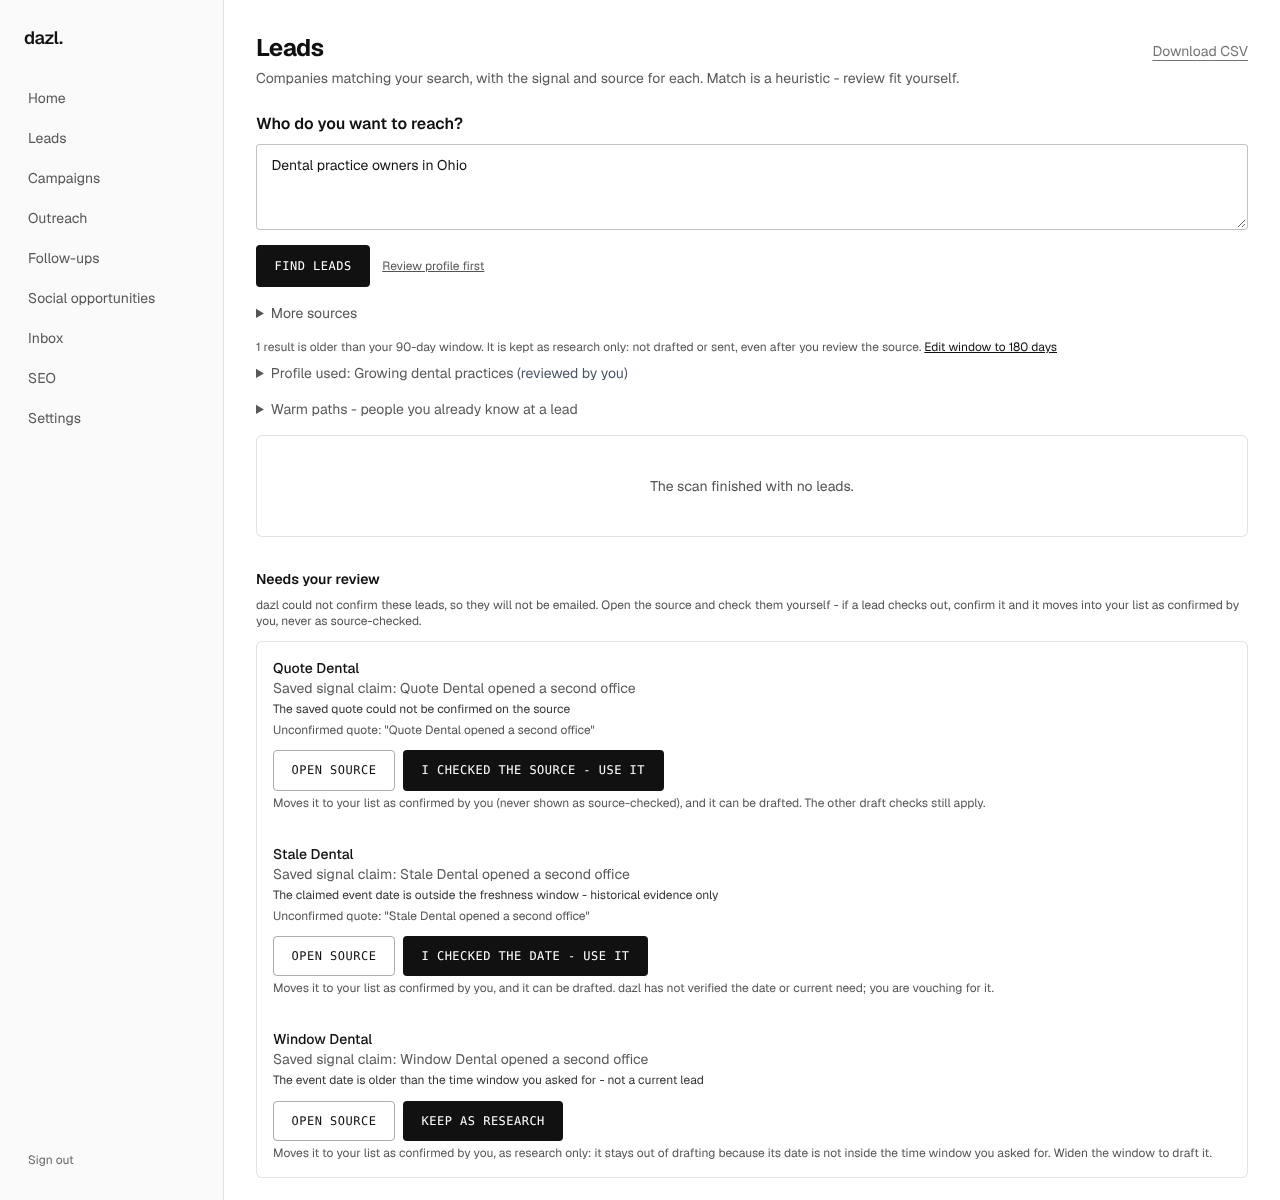
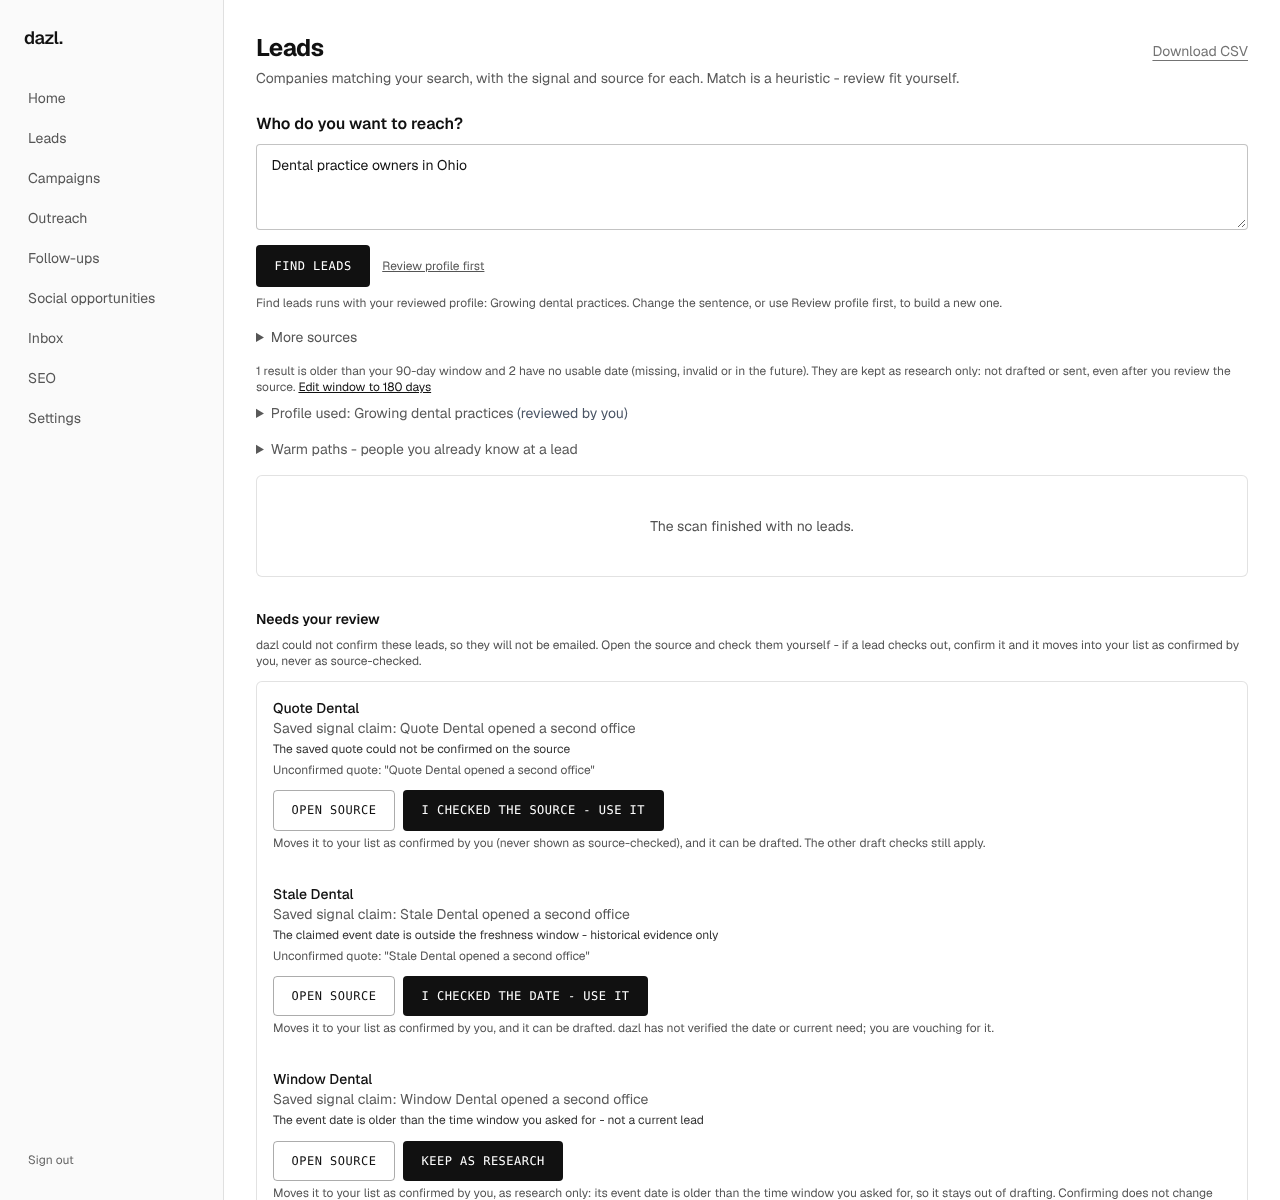
Review cards: never offer widening as a cure for undated, invalid or future dates
"Widen the window to draft it" was false for a lead with no valid event date (missing, invalid or in the future):
the window gate never admits those, whatever the window. And for a valid date older than the window, widening does not
change the existing lead; only a new scan with a wider window can find it as current, at the usual scan budget. The
hint now follows the same date test as the gate (windowStatus): no valid date -> research only, a wider window does not
change that; older -> research only for this lead, only a new wider-window scan (usual budget); held with no date facts
known -> safe common wording without a cure.

Claude-Session: https://claude.ai/code/session_01CafonXdzjwkFYiMRJWtsKo

diff --git a/web/test/review-action.test.ts b/web/test/review-action.test.ts
@@ -2,26 +2,51 @@ import { test } from 'node:test'
 import assert from 'node:assert/strict'
 import { reviewAction } from '../lib/scan/review-action.ts'
 
-test('a time-window hold survives confirming, so the action says "research only", never "use it"', () => {
-  for (const r of ['outside_window', 'outside_window_undated']) {
-    const a = reviewAction(r)
-    assert.equal(a.label, 'Keep as research')
-    assert.match(a.hint, /research only: it stays out of drafting/)
+const NOW = new Date('2026-10-28T12:00:00Z')
+const act = (o: object) => reviewAction(o as never, NOW)
+const NO_WIDEN = /wider|widen/i
+
+// Instinct #271: "Widen the window to draft it" was false for undated, invalid and future dates, which no window
+// ever admits, and misleading for older dates, where only a NEW scan can find the company as current.
+test('no valid event date (missing, invalid, future): research only, and widening is never offered as a cure', () => {
+  const cases = [
+    { review_reason: 'outside_window_undated', window_held: true, event_date: null },
+    { review_reason: 'outside_window_undated' }, // date facts not supplied: the reason alone says undated
+    { review_reason: 'event_date_bad_date', window_held: true, event_date: '2026-02-30' },
+    { review_reason: 'event_date_future_date', window_held: true, event_date: '2027-01-15' },
+    { review_reason: 'quote_unconfirmed', window_held: true, event_date: '' },
+  ]
+  for (const c of cases) {
+    const a = act(c)
+    assert.equal(a.label, 'Keep as research', JSON.stringify(c))
+    assert.match(a.hint, /no valid event date \(missing, invalid or in the future\), so it stays out of drafting\. A wider time window does not change that\./)
+    assert.doesNotMatch(a.hint.replace('A wider time window does not change that.', ''), NO_WIDEN, 'no widening advice')
   }
-  assert.equal(reviewAction('quote_unconfirmed', true).label, 'Keep as research', 'any reason with a window hold')
 })
 
-test('date problems: confirming vouches for the date and unlocks drafting; the hint says dazl has not verified it', () => {
+test('a valid date older than the window: research only for this lead; only a NEW scan with a wider window, at the usual budget', () => {
+  for (const c of [{ review_reason: 'outside_window', window_held: true, event_date: '2025-01-10' }, { review_reason: 'outside_window' }, { review_reason: 'quote_unconfirmed', window_held: true, event_date: '2025-06-01' }]) {
+    const a = act(c)
+    assert.equal(a.label, 'Keep as research')
+    assert.match(a.hint, /older than the time window you asked for, so it stays out of drafting\. Confirming does not change that for this lead; only a new scan with a wider window can find it as current \(it uses your usual scan budget\)\./)
+    assert.doesNotMatch(a.hint, /Widen the window to draft it/)
+  }
+})
+
+test('held but the date is not known here: safe common wording, no claimed cure', () => {
+  const a = act({ review_reason: 'quote_unconfirmed', window_held: true })
+  assert.equal(a.label, 'Keep as research')
+  assert.equal(a.hint, 'Moves it to your list as confirmed by you, as research only: it is outside the time window you asked for, so it stays out of drafting.')
+})
+
+test('not held: date problems vouch for the date; others are confirmed by you, never source-checked', () => {
   for (const r of ['event_timing_unconfirmed', 'event_date_bad_date', 'event_date_stale', 'event_date_future_date']) {
-    const a = reviewAction(r)
+    const a = act({ review_reason: r, window_held: false, event_date: '2026-10-01' })
     assert.equal(a.label, 'I checked the date - use it')
     assert.match(a.hint, /can be drafted\. dazl has not verified the date or current need; you are vouching for it\./)
   }
-})
-
-test('other reasons: confirmed by you, never source-checked; other draft checks still apply', () => {
-  for (const r of ['quote_unconfirmed', 'source_review_required', 'location_unconfirmed', null, undefined]) {
-    const a = reviewAction(r)
+  for (const r of ['quote_unconfirmed', 'source_review_required', 'location_unconfirmed', null]) {
+    const a = act({ review_reason: r, window_held: false })
     assert.equal(a.label, 'I checked the source - use it')
     assert.match(a.hint, /confirmed by you \(never shown as source-checked\), and it can be drafted\. The other draft checks still apply\./)
   }

diff --git a/web/lib/scan/review-action.ts b/web/lib/scan/review-action.ts
@@ -1,19 +1,39 @@
 // The confirm action on a "Needs your review" card, worded for what confirming actually does for THIS lead (the
 // server rules in lib/scan/review-confirm.ts and lib/outreach/currentness.ts): confirming records that the user checked
-// the source and makes the lead draft-eligible as "confirmed by you" - except that a time-window hold survives it, so a
-// lead outside (or undatable inside) the window the user asked for stays research only. Pure and client-safe.
+// the source and makes the lead draft-eligible as "confirmed by you" - except that a time-window hold survives it.
+// Under a window only a valid, non-future event date inside it is actionable (windowStatus, lib/scan/window.ts), so:
+//   - no valid date (missing, invalid or in the future): research only, and no window ever changes that;
+//   - a valid date older than the window: research only for THIS lead; only a NEW scan with a wider window can find it
+//     as current (window-notice.ts: "a new scan uses your usual scan budget");
+//   - held but the date facts are not known here: safe common wording, no claimed cure.
+// Pure and client-safe.
+import { windowStatus } from './window.ts'
 
-const WINDOW = new Set(['outside_window', 'outside_window_undated'])
 const DATE = new Set(['event_timing_unconfirmed', 'event_date_bad_date', 'event_date_stale', 'event_date_future_date'])
 
 export interface ReviewAction { label: string; hint: string }
+export interface ReviewLead { review_reason?: string | null; window_held?: boolean; event_date?: string | null }
 
-export function reviewAction(reason: string | null | undefined, windowHeld = false): ReviewAction {
-  if (windowHeld || WINDOW.has(reason ?? '')) return {
-    label: 'Keep as research',
-    hint: 'Moves it to your list as confirmed by you, as research only: it stays out of drafting because its date is not inside the time window you asked for. Widen the window to draft it.',
-  }
-  if (DATE.has(reason ?? '')) return {
+type Held = 'no_date' | 'older' | 'unknown'
+function heldKind(l: ReviewLead, now: Date): Held | null {
+  const r = l.review_reason ?? ''
+  if (r === 'outside_window_undated') return 'no_date'
+  const held = !!l.window_held || r === 'outside_window'
+  if (!held) return null
+  if (l.event_date === undefined) return r === 'outside_window' ? 'older' : 'unknown' // date not supplied: trust the reason only
+  // The same date test the window gate uses: missing, invalid or future is never inside any window.
+  const s = windowStatus(l.event_date, 365, now)
+  return s === 'undated' || s === 'invalid' || s === 'future' ? 'no_date' : 'older'
+}
+
+const RESEARCH = 'Moves it to your list as confirmed by you, as research only'
+
+export function reviewAction(l: ReviewLead, now: Date = new Date()): ReviewAction {
+  const kind = heldKind(l, now)
+  if (kind === 'no_date') return { label: 'Keep as research', hint: `${RESEARCH}: it has no valid event date (missing, invalid or in the future), so it stays out of drafting. A wider time window does not change that.` }
+  if (kind === 'older') return { label: 'Keep as research', hint: `${RESEARCH}: its event date is older than the time window you asked for, so it stays out of drafting. Confirming does not change that for this lead; only a new scan with a wider window can find it as current (it uses your usual scan budget).` }
+  if (kind === 'unknown') return { label: 'Keep as research', hint: `${RESEARCH}: it is outside the time window you asked for, so it stays out of drafting.` }
+  if (DATE.has(l.review_reason ?? '')) return {
     label: 'I checked the date - use it',
     hint: 'Moves it to your list as confirmed by you, and it can be drafted. dazl has not verified the date or current need; you are vouching for it.',
   }

diff --git a/web/app/app/leads/leads-client.tsx b/web/app/app/leads/leads-client.tsx
@@ -950,7 +950,7 @@ export default function LeadsClient() {
                   <div className="text-xs text-gray-500 mt-1">{quoteNote(l.source_check?.quote_match).prefix}"{l.evidence_excerpt}"</div>
                 )}
                 {/* Labelled actions: check the source first, then confirm - worded for what confirming unlocks for this lead. */}
-                {(() => { const a = reviewAction(l.review_reason, !!l.window_held); return <div className="mt-3" data-testid="review-actions">
+                {(() => { const a = reviewAction(l); return <div className="mt-3" data-testid="review-actions">
                   <div className="flex flex-wrap gap-2">
                     <a className="btn-ghost text-xs px-3 py-1.5" href={l.source_url} target="_blank" rel="noopener noreferrer nofollow">Open source</a>
                     <button onClick={() => confirmReview(l.id)} className="btn-primary text-xs px-3 py-1.5">{a.label}</button>
